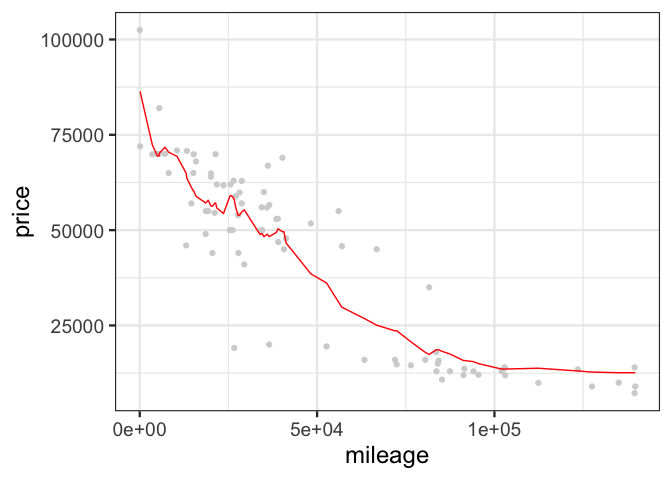
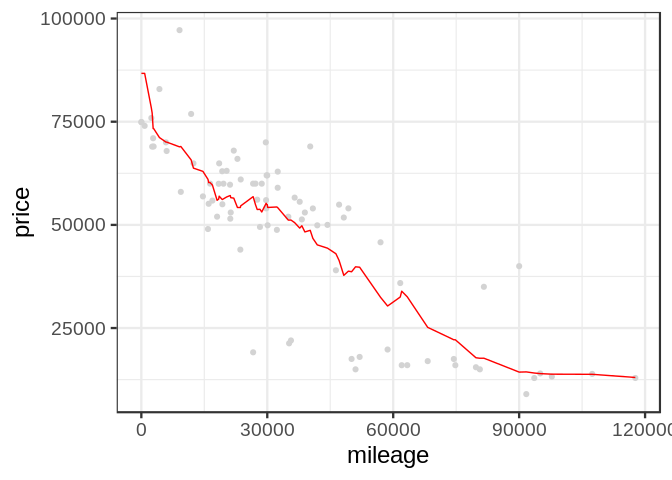
Writing up Problem 1

diff --git a/Exercise_2.md b/Exercise_2.md
@@ -7,74 +7,100 @@ This is an R Markdown format used for publishing markdown documents to
 GitHub. When you click the **Knit** button all R code chunks are run and
 a markdown file (.md) suitable for publishing to GitHub is generated.
 
-## Including Code
+## KNN Practice
+
+We wil be using the K-nearest neighbors technique to predict the price
+of Mercedes S Class vehicles based on gas mileage. We will be
+distinguishing these S Class vehicles by trim. In particular, we will be
+focusing on just two values of trim: 350 and 65 AMG, and finding optimal
+values of K for predicting the price of each.
+
+# KNN functions for 350 trim vehciles
 
     ## [1] 416  17
 
 ![](Exercise_2_files/figure-gfm/sclass_350-1.png)<!-- -->
 
-    ## [1] 10449.63
+    ## [1] 11262.72
 
 ![](Exercise_2_files/figure-gfm/sclass_350-2.png)<!-- -->
 
-    ## [1] 10453.46
+    ## [1] 9740.887
 
 ![](Exercise_2_files/figure-gfm/sclass_350-3.png)<!-- -->
 
-    ## [1] 10205.82
+    ## [1] 9569.883
 
 ![](Exercise_2_files/figure-gfm/sclass_350-4.png)<!-- -->
 
-    ## [1] 10000.8
+    ## [1] 9808.211
 
 ![](Exercise_2_files/figure-gfm/sclass_350-5.png)<!-- -->
 
-    ## [1] 9941.392
+    ## [1] 10166.67
 
 ![](Exercise_2_files/figure-gfm/sclass_350-6.png)<!-- -->
 
-    ## [1] 11122.99
+    ## [1] 11344.34
 
 ![](Exercise_2_files/figure-gfm/sclass_350-7.png)<!-- -->
 
-    ## [1] 19109.21
+    ## [1] 17985.58
 
-![](Exercise_2_files/figure-gfm/sclass_350-8.png)<!-- -->
+Here we plot the average RMSE for each value of K from 3 to 250, and
+find that the optimal value of K is
 
-    ## [1] 9860.415
+``` kplot
+kframe <- data.frame("K" = c(), "RMEAN" =c())
+i <- 3
+while (i <= 250) {
+  d = data.frame("K" = i, "RMEAN" = rmse(y_test, knn.reg(train = X_train, test = X_test, y = y_train, k=i)$pred))
+  
+  kframe = rbind(kframe, d)
+  i = i + 1
 
-# sclass\_65
+}
+
+k_vs_rmean = ggplot(data = kframe) + 
+  geom_point(mapping = aes(x = K, y = RMEAN), color='lightgrey') + 
+  theme_bw(base_size=18) + geom_path(aes(x = K, y = RMEAN), color='red')
+k_vs_rmean
+
+print(which kframe == min(kframe$RMEAN), arr.ind=TRUE)
+```
+
+# 65 AMG
 
     ## [1] 292  17
 
 ![](Exercise_2_files/figure-gfm/sclass_65-1.png)<!-- -->
 
-    ## [1] 29741.1
+    ## [1] 24517.79
 
 ![](Exercise_2_files/figure-gfm/sclass_65-2.png)<!-- -->
 
-    ## [1] 26869.01
+    ## [1] 21290.39
 
 ![](Exercise_2_files/figure-gfm/sclass_65-3.png)<!-- -->
 
-    ## [1] 25077.47
+    ## [1] 19735.25
 
 ![](Exercise_2_files/figure-gfm/sclass_65-4.png)<!-- -->
 
-    ## [1] 24355.71
+    ## [1] 19340.9
 
 ![](Exercise_2_files/figure-gfm/sclass_65-5.png)<!-- -->
 
-    ## [1] 31952.69
+    ## [1] 20513.41
 
 ![](Exercise_2_files/figure-gfm/sclass_65-6.png)<!-- -->
 
-    ## [1] 46368.29
+    ## [1] 33507.61
 
 ![](Exercise_2_files/figure-gfm/sclass_65-7.png)<!-- -->
 
-    ## [1] 76001.5
+    ## [1] 70033.17
 
 ![](Exercise_2_files/figure-gfm/sclass_65-8.png)<!-- -->
 
-    ## [1] 24355.71
+    ## [1] 18796.49
